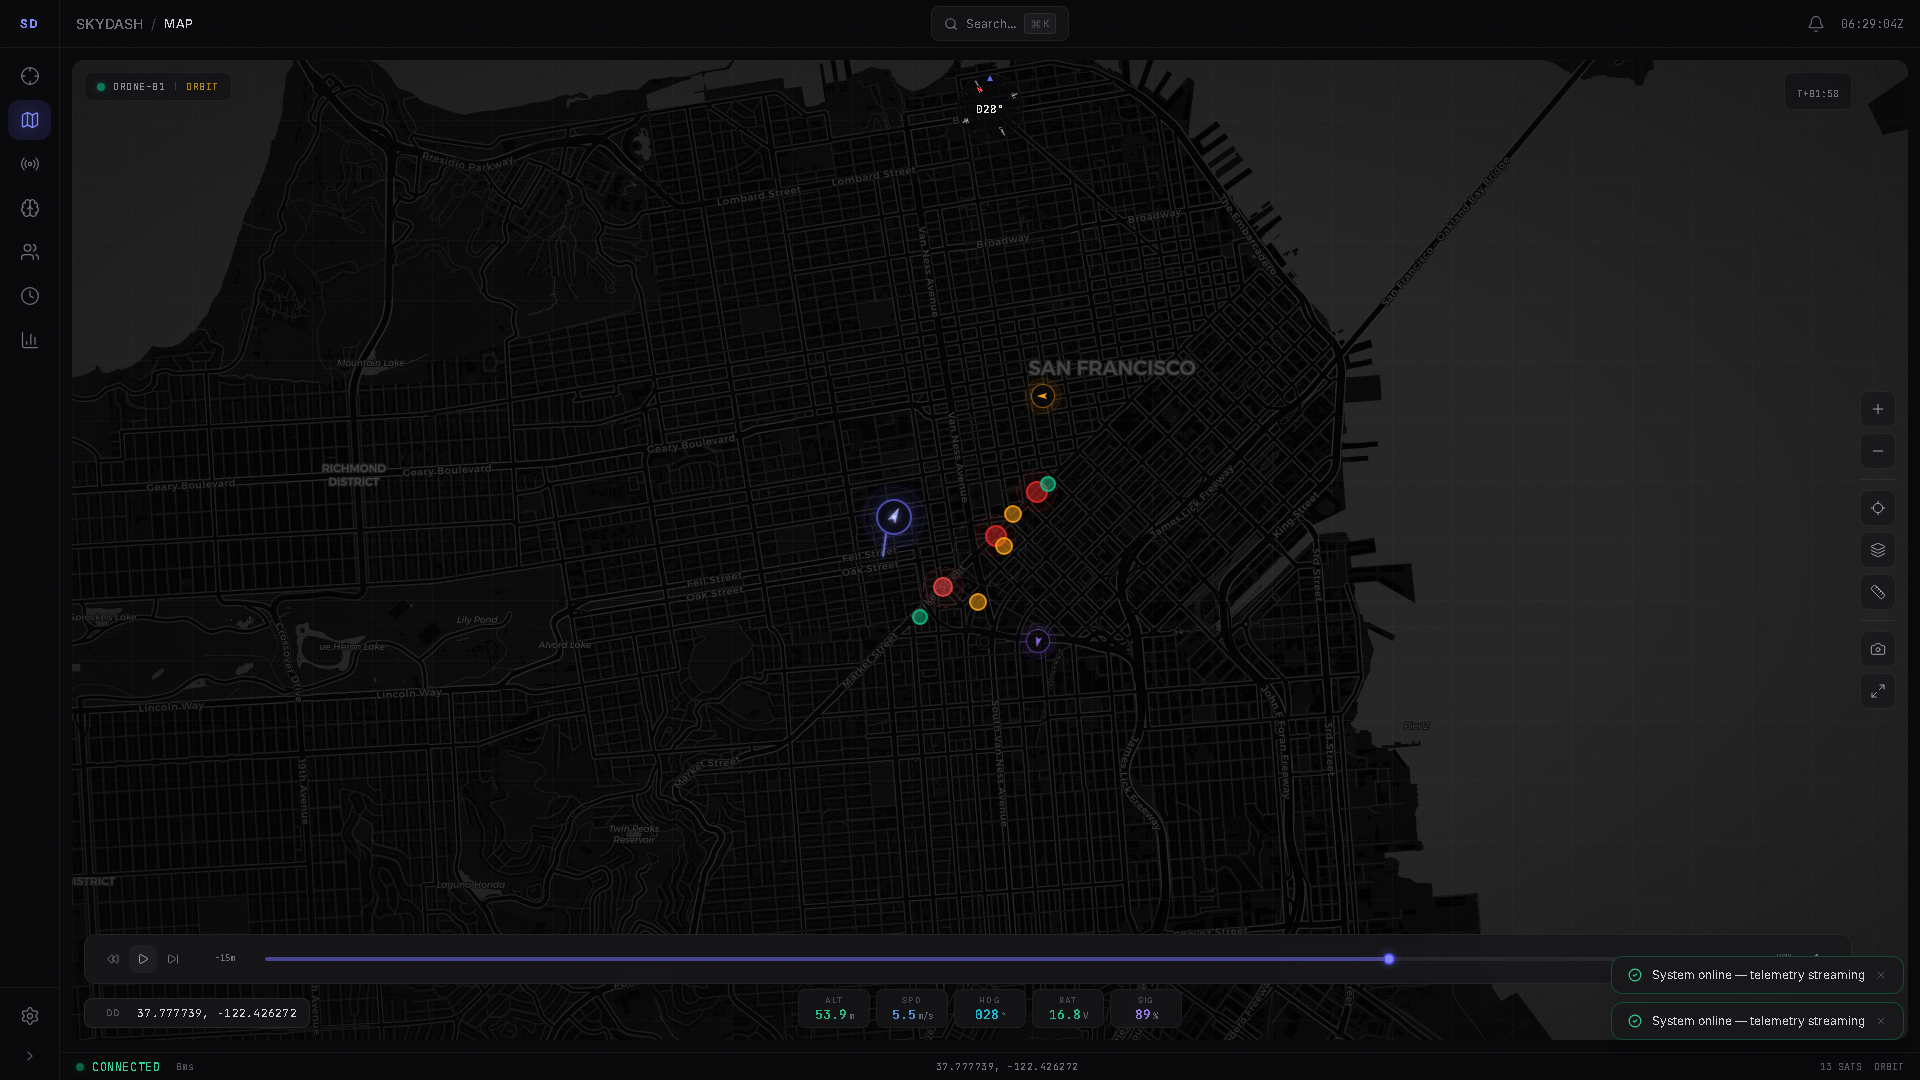
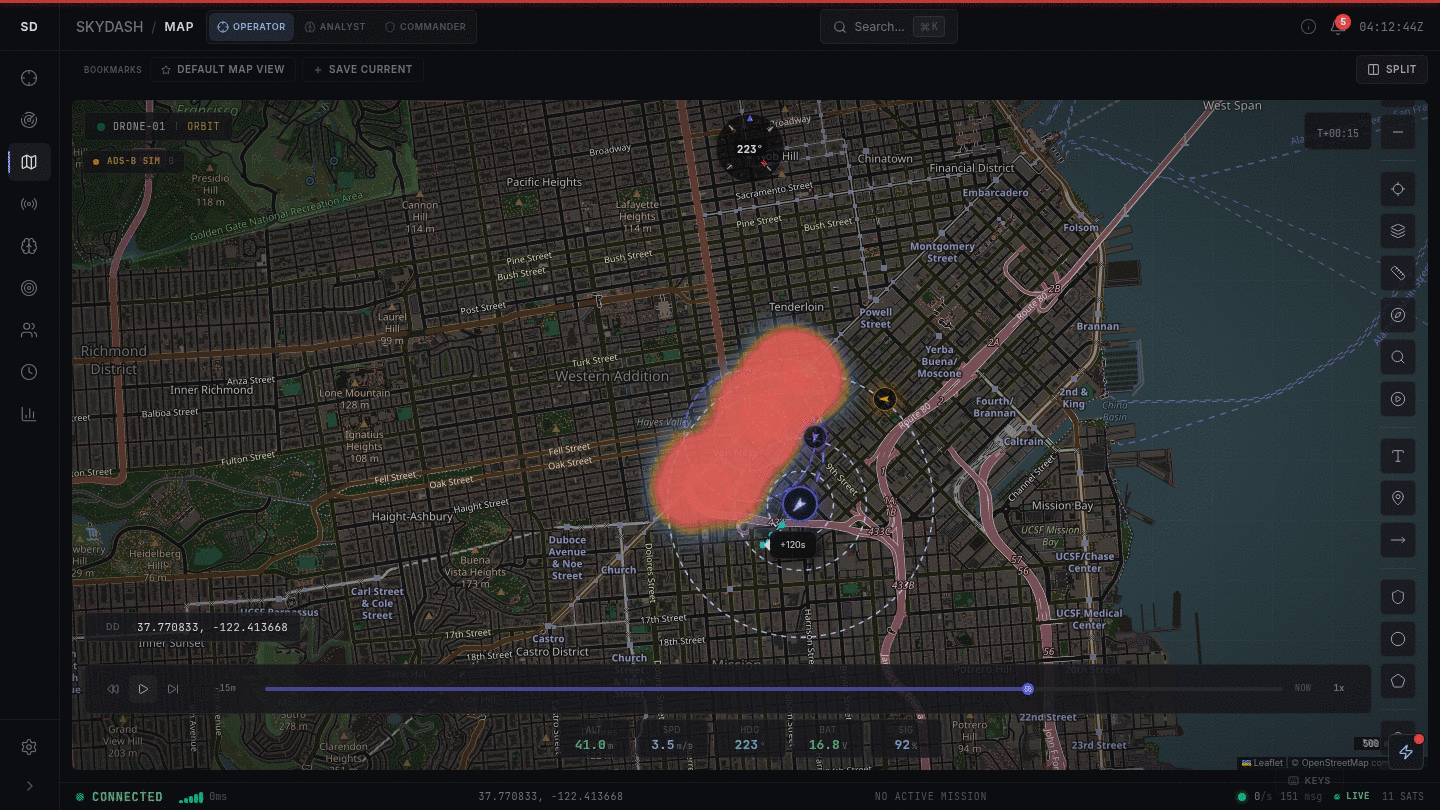
README: rewrite (features, architecture, config, security, limits) and refresh screenshots

diff --git a/README.md b/README.md
@@ -1,235 +1,206 @@
 # SkyDash
 
-SkyDash is a spatial intelligence OS for simulated drone fleet operations,
-geospatial entity tracking, OSINT-style analysis, mission debriefs, and
-operator QA workflows.
+SkyDash is a web-based common operating picture for unmanned fleets and
+geospatial intelligence. It shows a fleet, a map, entities, relationships and
+missions on one screen, and can stream positions to TAK clients. It is built to
+be inspected: small codebase, documented security model, no required cloud
+services.
 
-It is live on Azure and also runs locally through Docker or separate frontend
-and backend processes.
-
-- Live app: https://wonderful-cliff-0325f3800.7.azurestaticapps.net
-- Live API: https://skydash-api-38666.azurewebsites.net
-- API docs: https://skydash-api-38666.azurewebsites.net/docs
-- Current release status: [docs/current-status.md](docs/current-status.md)
-- Operations runbook: [docs/skydash-operations-runbook.md](docs/skydash-operations-runbook.md)
-- Safety boundary: [docs/safety-and-scope.md](docs/safety-and-scope.md)
+> **Status: engineering prototype.** All drone telemetry is simulated. SkyDash
+> is not accredited or certified for any classification level, is not a real
+> ground-control station, and is not a production investigation system. See
+> [Limits](#limits).
 
 ![Dashboard](docs/screenshots/dashboard.png)
 
-## What It Does
+- Live demo (open, simulated data): https://wonderful-cliff-0325f3800.7.azurestaticapps.net
+- API docs: https://skydash-api-38666.azurewebsites.net/docs
+- Release status: [docs/current-status.md](docs/current-status.md)
 
-SkyDash combines four working surfaces:
+## Features
 
-- Real-time fleet monitoring: three simulated drones stream telemetry over a
-  WebSocket, with HTTP fallback and a live command acknowledgement path.
-- Spatial intelligence: map layers, entity markers, ADS-B/OpenSky connector
-  data, geofences, measurement tools, heatmaps, overlays, and coordinate
-  formats.
-- OSINT-style analysis: entities, relationships, events, provenance views,
-  natural-language filters, link analysis, threat matrices, comparison views,
-  exports, and Shodan connector hooks.
-- Mission workflow: mission workspaces, notes, entity linking, debrief tabs,
-  optional RT-DETR frame analysis, and briefing/report exports.
+**Fleet and telemetry**
+- Three simulated drones streamed over a WebSocket, with HTTP polling as a
+  fallback and a visible degraded-connection banner.
+- Command panel (flight mode, altitude, yaw, emergency stop) with a command
+  acknowledgement path.
+- Scenario Lab: run named scenarios at different speeds and read a scorecard
+  (coverage, risk reduced, battery, detections).
 
-The system is built to be inspectable. It is not a real surveillance product,
-not a production investigation system, and not a real drone ground-control
-station. The public demo uses simulated telemetry.
+**Map**
+- Leaflet map with deck.gl overlays: drones, entities, geofences, heatmap,
+  measurement and annotation tools, several coordinate formats, saved views.
+- Self-hostable basemap tiles. If tiles cannot be loaded the map says
+  "BASEMAP OFFLINE" and all overlays keep working.
 
-## Production Demo Status
+**Intelligence**
+- Entities, relationships and events with provenance, filters, bookmarks,
+  link analysis, threat matrix, comparison and timeline views.
+- OpenSky (ADS-B) and Shodan connectors with preview and ingest. Shodan returns
+  mock data until `SHODAN_API_KEY` is set.
 
-The current public deployment is:
+**Missions**
+- Mission workspaces with notes, linked entities, briefing and debrief tabs and
+  report export.
+- Optional RT-DETR frame analysis when the vision dependencies are installed
+  (`backend/requirements-vision.txt`).
 
-- Frontend: Azure Static Web Apps, hosted at
-  `wonderful-cliff-0325f3800.7.azurestaticapps.net`.
-- Backend: Azure App Service for Linux, hosted at
-  `skydash-api-38666.azurewebsites.net`.
-- WebSocket: `wss://skydash-api-38666.azurewebsites.net/ws/telemetry`.
-- CI deploy: GitHub Actions workflow
-  `.github/workflows/skydash-azure-static-web-apps.yml` deploys the frontend
-  after relevant pushes to `main`.
-- Backend deploy: currently direct Azure App Service zip deploy from the
-  `backend/` source.
+**Interoperability**
+- Cursor-on-Target (CoT) output for every drone and geo-located entity to ATAK,
+  WinTAK or a TAK Server input over UDP, TCP or TLS. Outbound only.
+- CSV and GeoJSON export for telemetry and entities.
 
-Known live limits:
+**Operations and security** (all opt-in, see [Configuration](#configuration))
+- User accounts with four roles, enforced on the server and reflected in the UI.
+- Audit trail with commander-only CSV export, including failed sign-in attempts.
+- Session controls: token lifetime, idle timeout, logout that revokes the token,
+  WebSocket tickets, password policy, login throttling, optional API rate limit.
+- Commander-only account management (change role, disable) and a demo reset.
 
-- Drone telemetry is simulated.
-- Shodan runs in mock/unavailable mode until `SHODAN_API_KEY` is configured.
-- RT-DETR vision is optional and disabled on the base Azure API unless the
-  heavier vision dependencies are installed.
-- Auth exists in the backend, but the public demo is configured as an open demo.
+The interface has three themes (Midnight, Tactical, Arctic) and keyboard
+shortcuts for the main views.
 
-## Tech Stack
+| Map | Intel |
+| --- | --- |
+| ![Map](docs/screenshots/map.png) | ![Intel](docs/screenshots/intel.png) |
 
-- Frontend: React 18, Vite 8, Tailwind CSS, Zustand, Framer Motion, Leaflet,
-  Deck.gl, Recharts, cmdk, Lucide icons.
-- Backend: FastAPI, Uvicorn, Pydantic, WebSockets, SQLite with lightweight
-  migrations.
-- Connectors: OpenSky/ADS-B and Shodan routes with ingest endpoints.
-- Optional local analysis runner: SkyDash Intel Crew in `skydash_intel_crew/`.
-  It is not part of the production Azure runtime.
-- Testing: Vitest, Playwright, pytest, and optional CrewAI smoke tests.
-- Deployment: Azure Static Web Apps, Azure App Service, Docker Compose for
-  local operation.
-
-## Repository Shape
+## Architecture
 
 ```text
-backend/
-  main.py                  FastAPI entry point and middleware
-  deps.py                  shared config, stores, connectors, telemetry history
-  simulation.py            simulated multi-drone fleet and command state
-  entities.py              entity, relationship, and event store
-  missions.py              missions, notes, linked entities, detections
-  routes/
-    telemetry.py           REST telemetry, command ACK, reset, WebSocket stream
-    entities.py            entity CRUD, graph, timeline, events
-    missions.py            mission CRUD, links, notes
-    connectors.py          ADS-B/OpenSky and Shodan search/ingest
-    export.py              GeoJSON and CSV exports
-    vision.py              optional RT-DETR status, feed, detection routes
-    auth_routes.py         optional user/auth routes
-
-skydash/frontend/src/
-  components/              dashboard, map, telemetry, intel, mission, common UI
-  hooks/                   telemetry, keyboard, map/context, alerts, console
-  stores/                  Zustand stores for app domains
-  utils/                   coordinates, exports, NLQ, scenarios, runtime config
-
-skydash_intel_crew/
-  src/skydash_intel_crew/  CrewAI orchestration and source snapshot tooling
-  tests/                   CrewAI smoke tests
-
-docs/
-  current-status.md        live release status and verification baseline
-  skydash-operations-runbook.md
-  safety-and-scope.md
+Browser (React, Vite)  --HTTP/WS-->  FastAPI backend  -->  SQLite
+                                         |
+                                         +--> CoT stream (UDP/TCP/TLS) to TAK
+                                         +--> OpenSky / Shodan (only when called)
 ```
 
-Current tree facts:
+- **Frontend:** React 18, Vite, Tailwind CSS, Zustand, Leaflet, deck.gl,
+  Recharts, Framer Motion, cmdk.
+- **Backend:** FastAPI, Uvicorn, Pydantic, SQLite with lightweight migrations.
+  Authentication is PBKDF2 password hashing and HS256 JWTs.
+- **Containers:** the backend image runs as an unprivileged user; the frontend
+  is served by nginx, which also proxies `/api` and `/ws`.
+- **Optional:** [skydash_intel_crew](skydash_intel_crew/README.md), a CrewAI
+  readiness runner. It is not part of the deployed runtime.
 
-- Frontend `src`: 225 JS/JSX/CSS files, including tests.
-- Backend: 22 Python files.
-- Playwright: 74 E2E test cases.
-- Frontend unit tests: 141 Vitest tests.
-- Backend tests: 4 pytest tests.
-- CrewAI smoke tests: 10 pytest tests.
-
-## Run Locally
-
-### Docker Compose
-
-```powershell
-docker compose up --build -d
-docker compose ps
-Invoke-RestMethod http://localhost:8001/health
+```text
+backend/            FastAPI app, stores, routes, auth, RBAC, audit, CoT stream
+skydash/frontend/   React application and its tests
+e2e/                Playwright specs
+docs/               Deployment, security, operations, demo walkthrough
 ```
 
-Open http://localhost.
+## Quick start
 
-### Separate Processes
+Docker (frontend on port 80, API on port 8001):
 
-Backend:
+```bash
+cp .env.example .env
+docker compose up -d --build
+curl http://localhost:8001/health
+```
 
-```powershell
+Without Docker:
+
+```bash
+# backend
 cd backend
 pip install -r requirements.txt
 python main.py
-```
 
-Frontend:
-
-```powershell
+# frontend, in a second terminal
 cd skydash/frontend
 npm install
-$env:VITE_API_URL='http://localhost:8001'
-npm run dev
+VITE_API_URL=http://localhost:8001 npm run dev
 ```
 
-Open http://localhost:5173.
+Open http://localhost:5173 (dev) or http://localhost (Docker). With no
+configuration, authentication is off and there are no roles, which suits a local
+demo and nothing else.
 
-## CrewAI Stack
+## Configuration
 
-The optional CrewAI operating-readiness runner lives in
-[skydash_intel_crew](skydash_intel_crew/README.md). It can read the local
-SkyDash docs/source snapshot and inspect live readiness URLs. It is not running
-in the Azure frontend or backend.
+Backend variables (set in `.env` or the environment):
 
-Docker profile:
+| Variable | Purpose |
+| --- | --- |
+| `SKYDASH_JWT_SECRET` | Turns on authentication, roles and the audit trail. Use a long random value. |
+| `SKYDASH_DISABLE_DEMO_USERS` | `1` stops the built-in demo accounts being created. Set it for any real deployment. |
+| `SKYDASH_ALLOW_REGISTRATION` | `false` closes public self-registration. |
+| `SKYDASH_MIN_PASSWORD_LENGTH` | Minimum length for new passwords (floor 8). |
+| `SKYDASH_TOKEN_TTL_MINUTES` | Session lifetime (default 1440). |
+| `SKYDASH_RATE_LIMIT_PER_MIN` | Per-client cap on `/api` requests. Off by default. |
+| `SKYDASH_TRUST_PROXY` | `1` to use `X-Real-IP` from your reverse proxy for throttling and audit. |
+| `SKYDASH_CORS_ORIGINS` | Comma-separated frontend origins. |
+| `SKYDASH_API_KEY` | Single shared key, used only when authentication is off. |
+| `SKYDASH_MAX_BODY_BYTES` | Request body cap (default 25 MB). |
+| `SKYDASH_DB_PATH` | SQLite file location. |
+| `SKYDASH_COT_TARGET` | `udp://`, `tcp://` or `tls://` host and port for CoT output. Off when unset. |
+| `SKYDASH_COT_INTERVAL` | Seconds between CoT updates (default 5). |
+| `SKYDASH_COT_CA`, `SKYDASH_COT_CERT`, `SKYDASH_COT_KEY` | PEM files for `tls://` targets. |
+| `SHODAN_API_KEY` | Enables live Shodan queries. |
 
-```powershell
-docker compose --profile crew run --rm crewai
+Frontend build variables:
+
+| Variable | Purpose |
+| --- | --- |
+| `VITE_API_URL`, `VITE_WS_URL` | Backend HTTP and WebSocket base URLs. |
+| `VITE_TILE_URL`, `VITE_TILE_ATTRIBUTION` | Internal tile server for offline or air-gapped use. |
+| `VITE_IDLE_TIMEOUT_MINUTES` | Sign out after this many idle minutes when authentication is on. |
+
+Full details, including TLS and air-gapped notes, are in
+[docs/deployment.md](docs/deployment.md).
+
+## Security summary
+
+With `SKYDASH_JWT_SECRET` set:
+
+- Roles from lowest to highest: viewer, analyst, operator, commander. Reads need
+  a signed-in user, changes need analyst, flight commands need operator, audit
+  and account administration need commander.
+- Every state-changing request and every sign-in attempt is written to the audit
+  trail.
+- Signing out revokes the token. Disabling an account ends its sessions,
+  including the live data stream.
+- Dependencies are audited weekly in CI, which also produces CycloneDX SBOMs.
+
+[docs/security.md](docs/security.md) states exactly what is and is not enforced.
+The public demo runs with authentication off.
+
+## Development
+
+```bash
+# backend
+cd backend && python -m pytest tests
+
+# frontend
+cd skydash/frontend
+npm run lint
+npm test
+npm run build
 ```
 
-Local smoke tests:
+CI (`.github/workflows/ci.yml`) runs frontend lint, tests and build with a
+bundle-size budget, backend tests with a coverage floor and an API smoke test,
+a Playwright smoke suite, and (on `main`) a Docker image build. The `Dependency Audit` workflow runs weekly.
 
-```powershell
-cd skydash_intel_crew
-uv run pytest
-```
+## Documentation
 
-LLM provider options are configured through `.env` only when running the
-optional crew manually.
+- [Deployment](docs/deployment.md): Docker, production settings, offline use
+- [Security](docs/security.md): roles, audit, sessions, proxy and rate limits
+- [Demo walkthrough](docs/demo-walkthrough.md): a 10-minute scripted demo
+- [Operations runbook](docs/skydash-operations-runbook.md): local, Azure and CI commands
+- [Release status](docs/current-status.md): live deployment and open gaps
+- [Safety and scope](docs/safety-and-scope.md): misuse boundaries and real-drone limits
 
-## API
+## Limits
 
-Local docs are available at http://localhost:8001/docs.
-Live docs are available at https://skydash-api-38666.azurewebsites.net/docs.
-
-Important routes:
-
-- `GET /health`
-- `GET /telemetry`
-- `GET /telemetry/{drone_id}`
-- `POST /api/drone/{drone_id}/command`
-- `WS /ws/telemetry`
-- `GET /api/telemetry/history`
-- `GET /api/telemetry/stats`
-- `GET /api/entities`
-- `POST /api/entities`
-- `GET /api/entities/graph`
-- `GET /api/timeline`
-- `GET /api/missions`
-- `POST /api/missions`
-- `GET /api/connectors/adsb`
-- `GET /api/connectors/shodan`
-- `POST /api/connectors/adsb/ingest`
-- `POST /api/connectors/shodan/ingest`
-- `GET /api/vision/status`
-- `POST /api/missions/{mission_id}/detections/analyze`
-- `GET /api/export/telemetry/csv`
-- `GET /api/export/entities/csv`
-- `POST /api/export/geojson`
-- `POST /reset`
-
-## Verification
-
-Run the core local checks:
-
-```powershell
-npm --prefix skydash/frontend run lint
-npm --prefix skydash/frontend run test -- --run
-npm --prefix skydash/frontend run build
-python -m compileall backend
-cd backend; python -m pytest tests; cd ..
-cd skydash_intel_crew; uv run pytest; cd ..
-```
-
-Production smoke:
-
-```powershell
-$env:PLAYWRIGHT_BASE_URL='https://wonderful-cliff-0325f3800.7.azurestaticapps.net'
-$env:PLAYWRIGHT_API_URL='https://skydash-api-38666.azurewebsites.net'
-npx playwright test e2e/skydash.spec.js e2e/interactions.spec.js -g "app boots|backend API returns fleet telemetry|drone command panel uses backend ACK|OSINT ingest panel previews"
-```
-
-## Documentation Map
-
-- [docs/current-status.md](docs/current-status.md): current live deployment,
-  verification baseline, and open production gaps.
-- [docs/skydash-operations-runbook.md](docs/skydash-operations-runbook.md):
-  local, Azure, CI, and release commands.
-- [docs/safety-and-scope.md](docs/safety-and-scope.md):
-  misuse boundaries and real-drone limits.
+- Drone telemetry is simulated. No real aircraft are connected.
+- The CoT output is a one-way feed, not a full TAK integration.
+- Not accredited or certified. Treat it as a prototype for evaluation.
+- Storage is a single SQLite file: one backend instance, no clustering.
+- The public demo is open and holds no real data.
+- CI builds the Docker images but does not run them, so `nginx.conf` is not
+  exercised end to end; run `docker compose up` before relying on it.
 
 ## License
 
